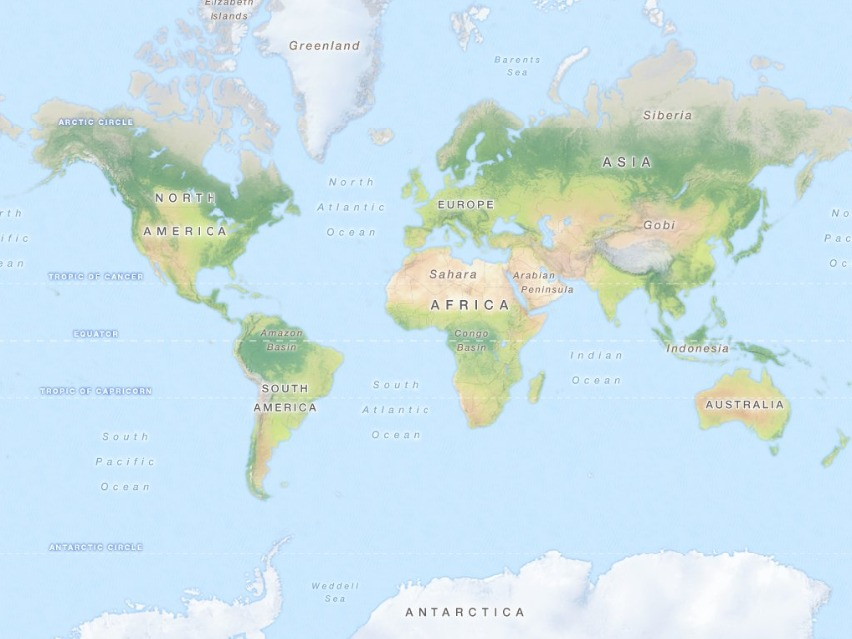
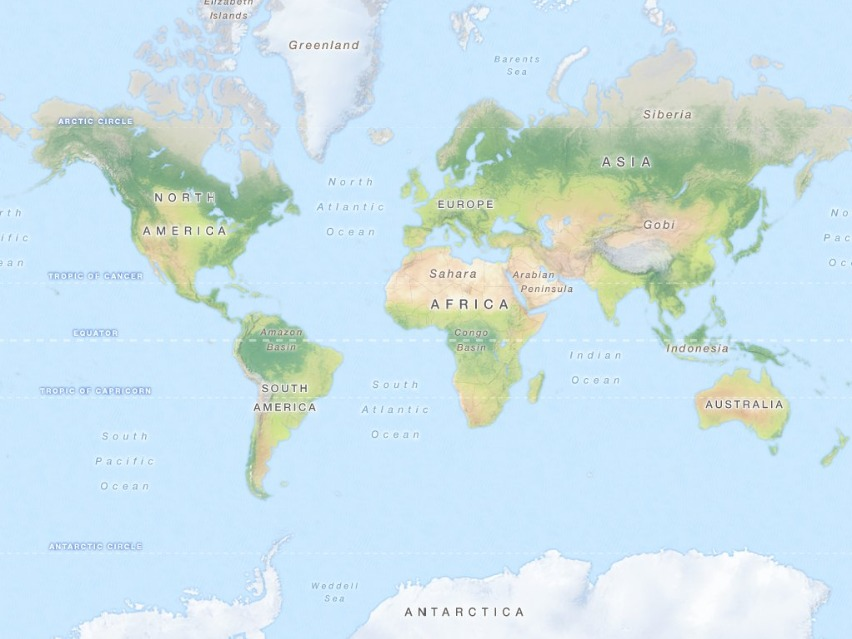
fix an off-by-one bug in the tile rendering
The tile size computation made the tiles one pixel smaller than they really were leading to some artifacts.

diff --git a/src/foldbeam/nodes.py b/src/foldbeam/nodes.py
@@ -192,8 +192,8 @@ class TileStacheRasterNode(RasterNode):
                 tile_raster = gdal.Open('/vsimem/tmptile.png')
                 tile_raster.SetProjection(self.preferred_srs_wkt)
 
-                xscale = xtile_size / (tile_raster.RasterXSize-1)
-                yscale = ytile_size / (tile_raster.RasterYSize-1)
+                xscale = xtile_size / tile_raster.RasterXSize
+                yscale = ytile_size / tile_raster.RasterYSize
                 tile_raster.SetGeoTransform((
                     tile_tl_point.x, xscale, 0.0,
                     tile_tl_point.y, 0.0, yscale,
